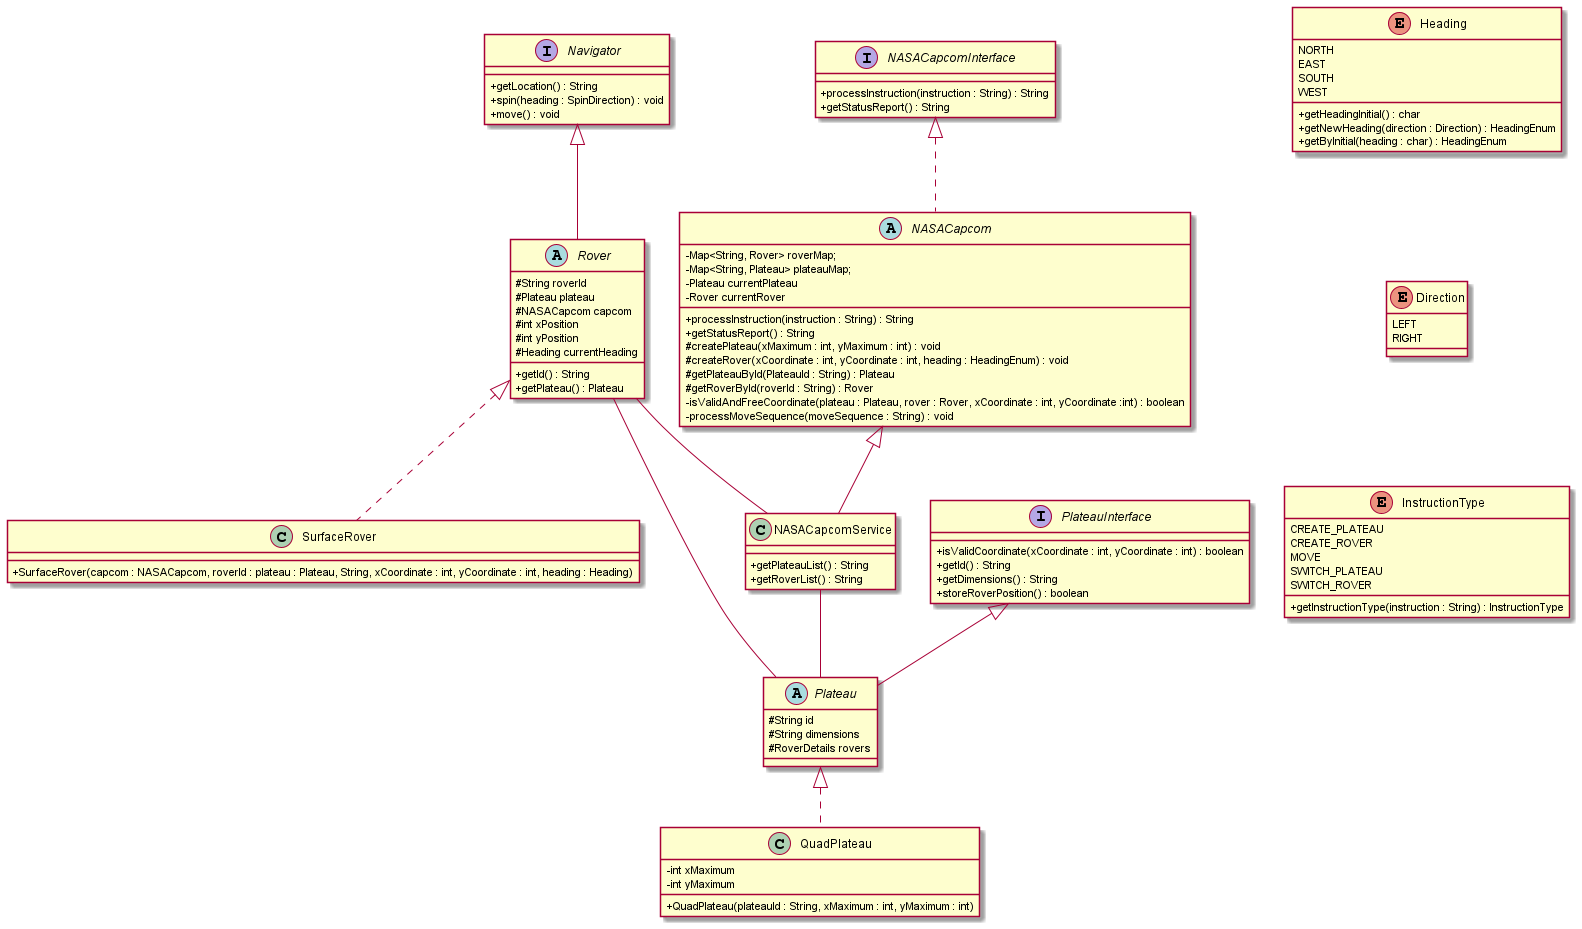
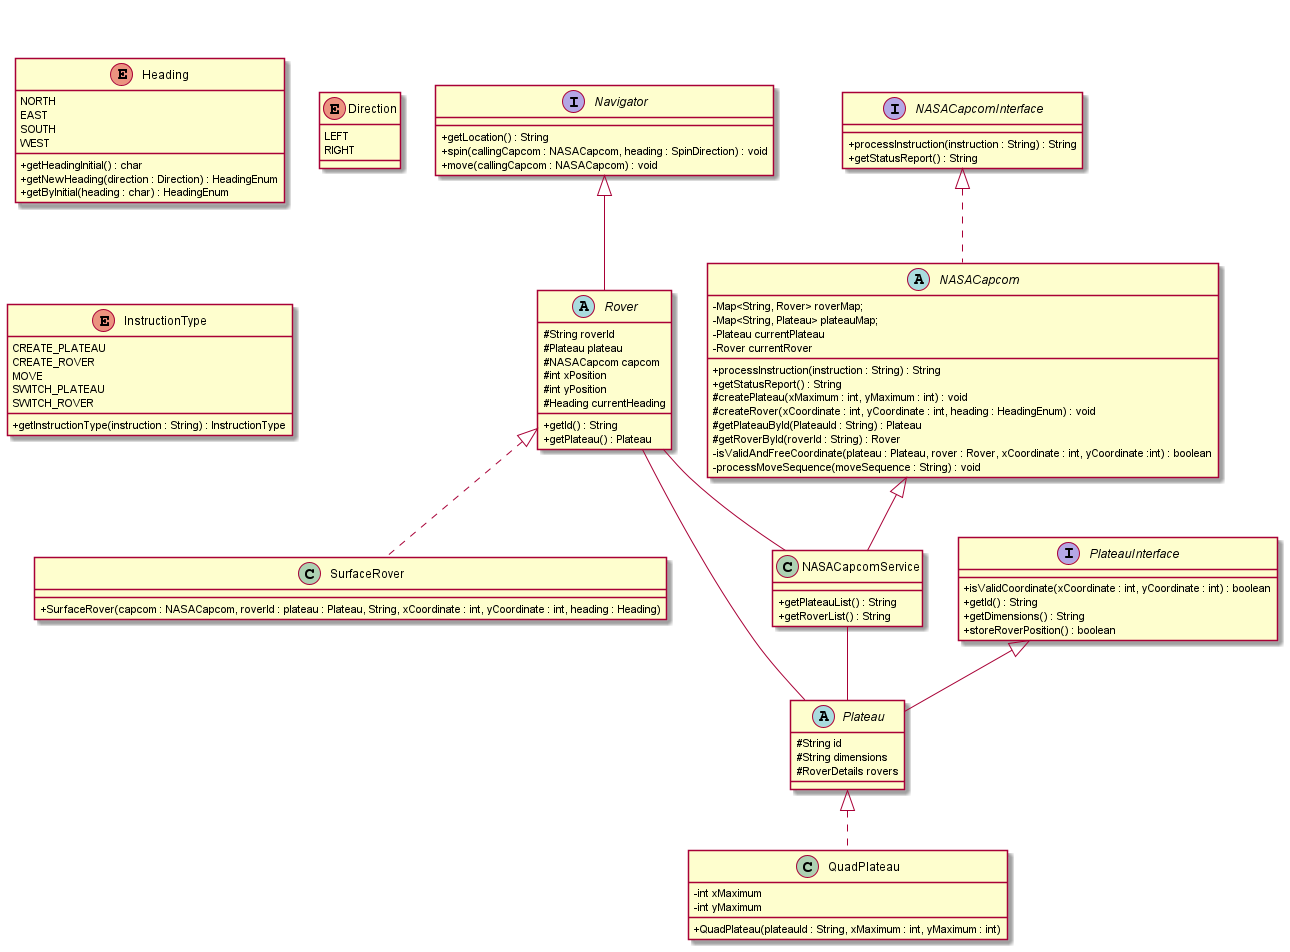
Rover check that owning capcom is calling spin and move

diff --git a/src/test/java/com/probert999/marsrover/RoverTest.java b/src/test/java/com/probert999/marsrover/RoverTest.java
@@ -50,13 +50,13 @@ public class RoverTest {
 
   @Test
   public void shouldBeAbleToSpinLeft() {
-    testRover.spin(DirectionEnum.LEFT);
+    testRover.spin(capcom, DirectionEnum.LEFT);
     assertEquals("2 2 W", testRover.getLocation());
   }
 
   @Test
   public void shouldBeAbleToSpinRight() {
-    testRover.spin(DirectionEnum.RIGHT);
+    testRover.spin(capcom, DirectionEnum.RIGHT);
     assertEquals("2 2 E", testRover.getLocation());
   }
 
@@ -65,7 +65,7 @@ public class RoverTest {
   @MethodSource("validMoveTestData")
   public void shouldBeAbleToMoveToValidAndFreeGridReference(HeadingEnum heading, String expectedResult) {
     testRover = new SurfaceRover(capcom, "TestRover", plateau,2, 2, heading);
-    testRover.move();
+    testRover.move(capcom);
     assertEquals(expectedResult, testRover.getLocation());
   }
 
@@ -80,7 +80,7 @@ public class RoverTest {
   @Test
   public void shouldNotMoveToInvalidSpace() {
     testRover = new SurfaceRover(capcom, "TestRover", plateau,5, 5, HeadingEnum.NORTH);
-    assertThrows(IllegalStateException.class, () -> testRover.move());
+    assertThrows(IllegalStateException.class, () -> testRover.move(capcom));
     assertEquals("5 5 N", testRover.getLocation());
   }
 
@@ -92,8 +92,22 @@ public class RoverTest {
   @Test
   public void shouldHandlePositionStoreFailure(){
     testRover = new SurfaceRover(capcom, "ROVER-FAIL", plateau,1, 4, HeadingEnum.WEST);
-    assertThrows(IllegalStateException.class, () -> testRover.move());
+    assertThrows(IllegalStateException.class, () -> testRover.move(capcom));
   }
 
+
+  @Test
+  public void shouldNotAcceptMoveCommandFromRogueCapcom(){
+    NASACapcomStub rogueCapcom = new NASACapcomStub();
+    testRover = new SurfaceRover(capcom, "ROVER-1", plateau,2, 2, HeadingEnum.WEST);
+    assertThrows(IllegalStateException.class, () -> testRover.move(rogueCapcom));
+  }
+
+  @Test
+  public void shouldNotAcceptSpinCommandFromRogueCapcom(){
+    NASACapcomStub rogueCapcom = new NASACapcomStub();
+    testRover = new SurfaceRover(capcom, "ROVER-1", plateau,2, 2, HeadingEnum.WEST);
+    assertThrows(IllegalStateException.class, () -> testRover.spin(rogueCapcom, DirectionEnum.LEFT));
+  }
 
 }

diff --git a/src/main/java/com/probert999/marsrover/model/Rover.java b/src/main/java/com/probert999/marsrover/model/Rover.java
@@ -1,5 +1,6 @@
 package com.probert999.marsrover.model;
 
+import java.nio.file.AccessDeniedException;
 import java.text.MessageFormat;
 
 public abstract class Rover implements Navigator {
@@ -22,13 +23,21 @@ public abstract class Rover implements Navigator {
     return MessageFormat.format("{0} {1} {2}",xPosition, yPosition, currentHeading.getHeadingInitial());
   }
 
-  public void spin(DirectionEnum spinDirection)
+  public void spin(NASACapcom callingCapcom, DirectionEnum spinDirection)
   {
+    if (callingCapcom != capcom)
+    {
+      throw new IllegalStateException("Only owning Capcom can request spin");
+    }
     currentHeading = currentHeading.getNewHeading(spinDirection);
   }
 
-  public void move()
-  {
+  public void move(NASACapcom callingCapcom)  {
+    if (callingCapcom != capcom)
+    {
+      throw new IllegalStateException("Only owning Capcom can request move");
+    }
+
     int newXPosition = xPosition;
     int newYPosition = yPosition;
 

diff --git a/src/main/java/com/probert999/marsrover/model/NASACapcom.java b/src/main/java/com/probert999/marsrover/model/NASACapcom.java
@@ -119,9 +119,9 @@ public abstract class NASACapcom implements NASACapcomInterface {
     char[] moves = moveSequence.toCharArray();
     for (char move : moves) {
       switch (move) {
-        case 'L' -> currentRover.spin(DirectionEnum.LEFT);
-        case 'R' -> currentRover.spin(DirectionEnum.RIGHT);
-        case 'M' -> currentRover.move();
+        case 'L' -> currentRover.spin(this, DirectionEnum.LEFT);
+        case 'R' -> currentRover.spin(this, DirectionEnum.RIGHT);
+        case 'M' -> currentRover.move(this);
       }
     }
   }

diff --git a/src/main/java/com/probert999/marsrover/model/Navigator.java b/src/main/java/com/probert999/marsrover/model/Navigator.java
@@ -4,7 +4,7 @@ public interface Navigator {
 
   String getLocation();
 
-  void spin(DirectionEnum spinDirection);
+  void spin(NASACapcom callingCapcom, DirectionEnum spinDirection);
 
-  void move();
+  void move(NASACapcom callingCapcom);
 }
